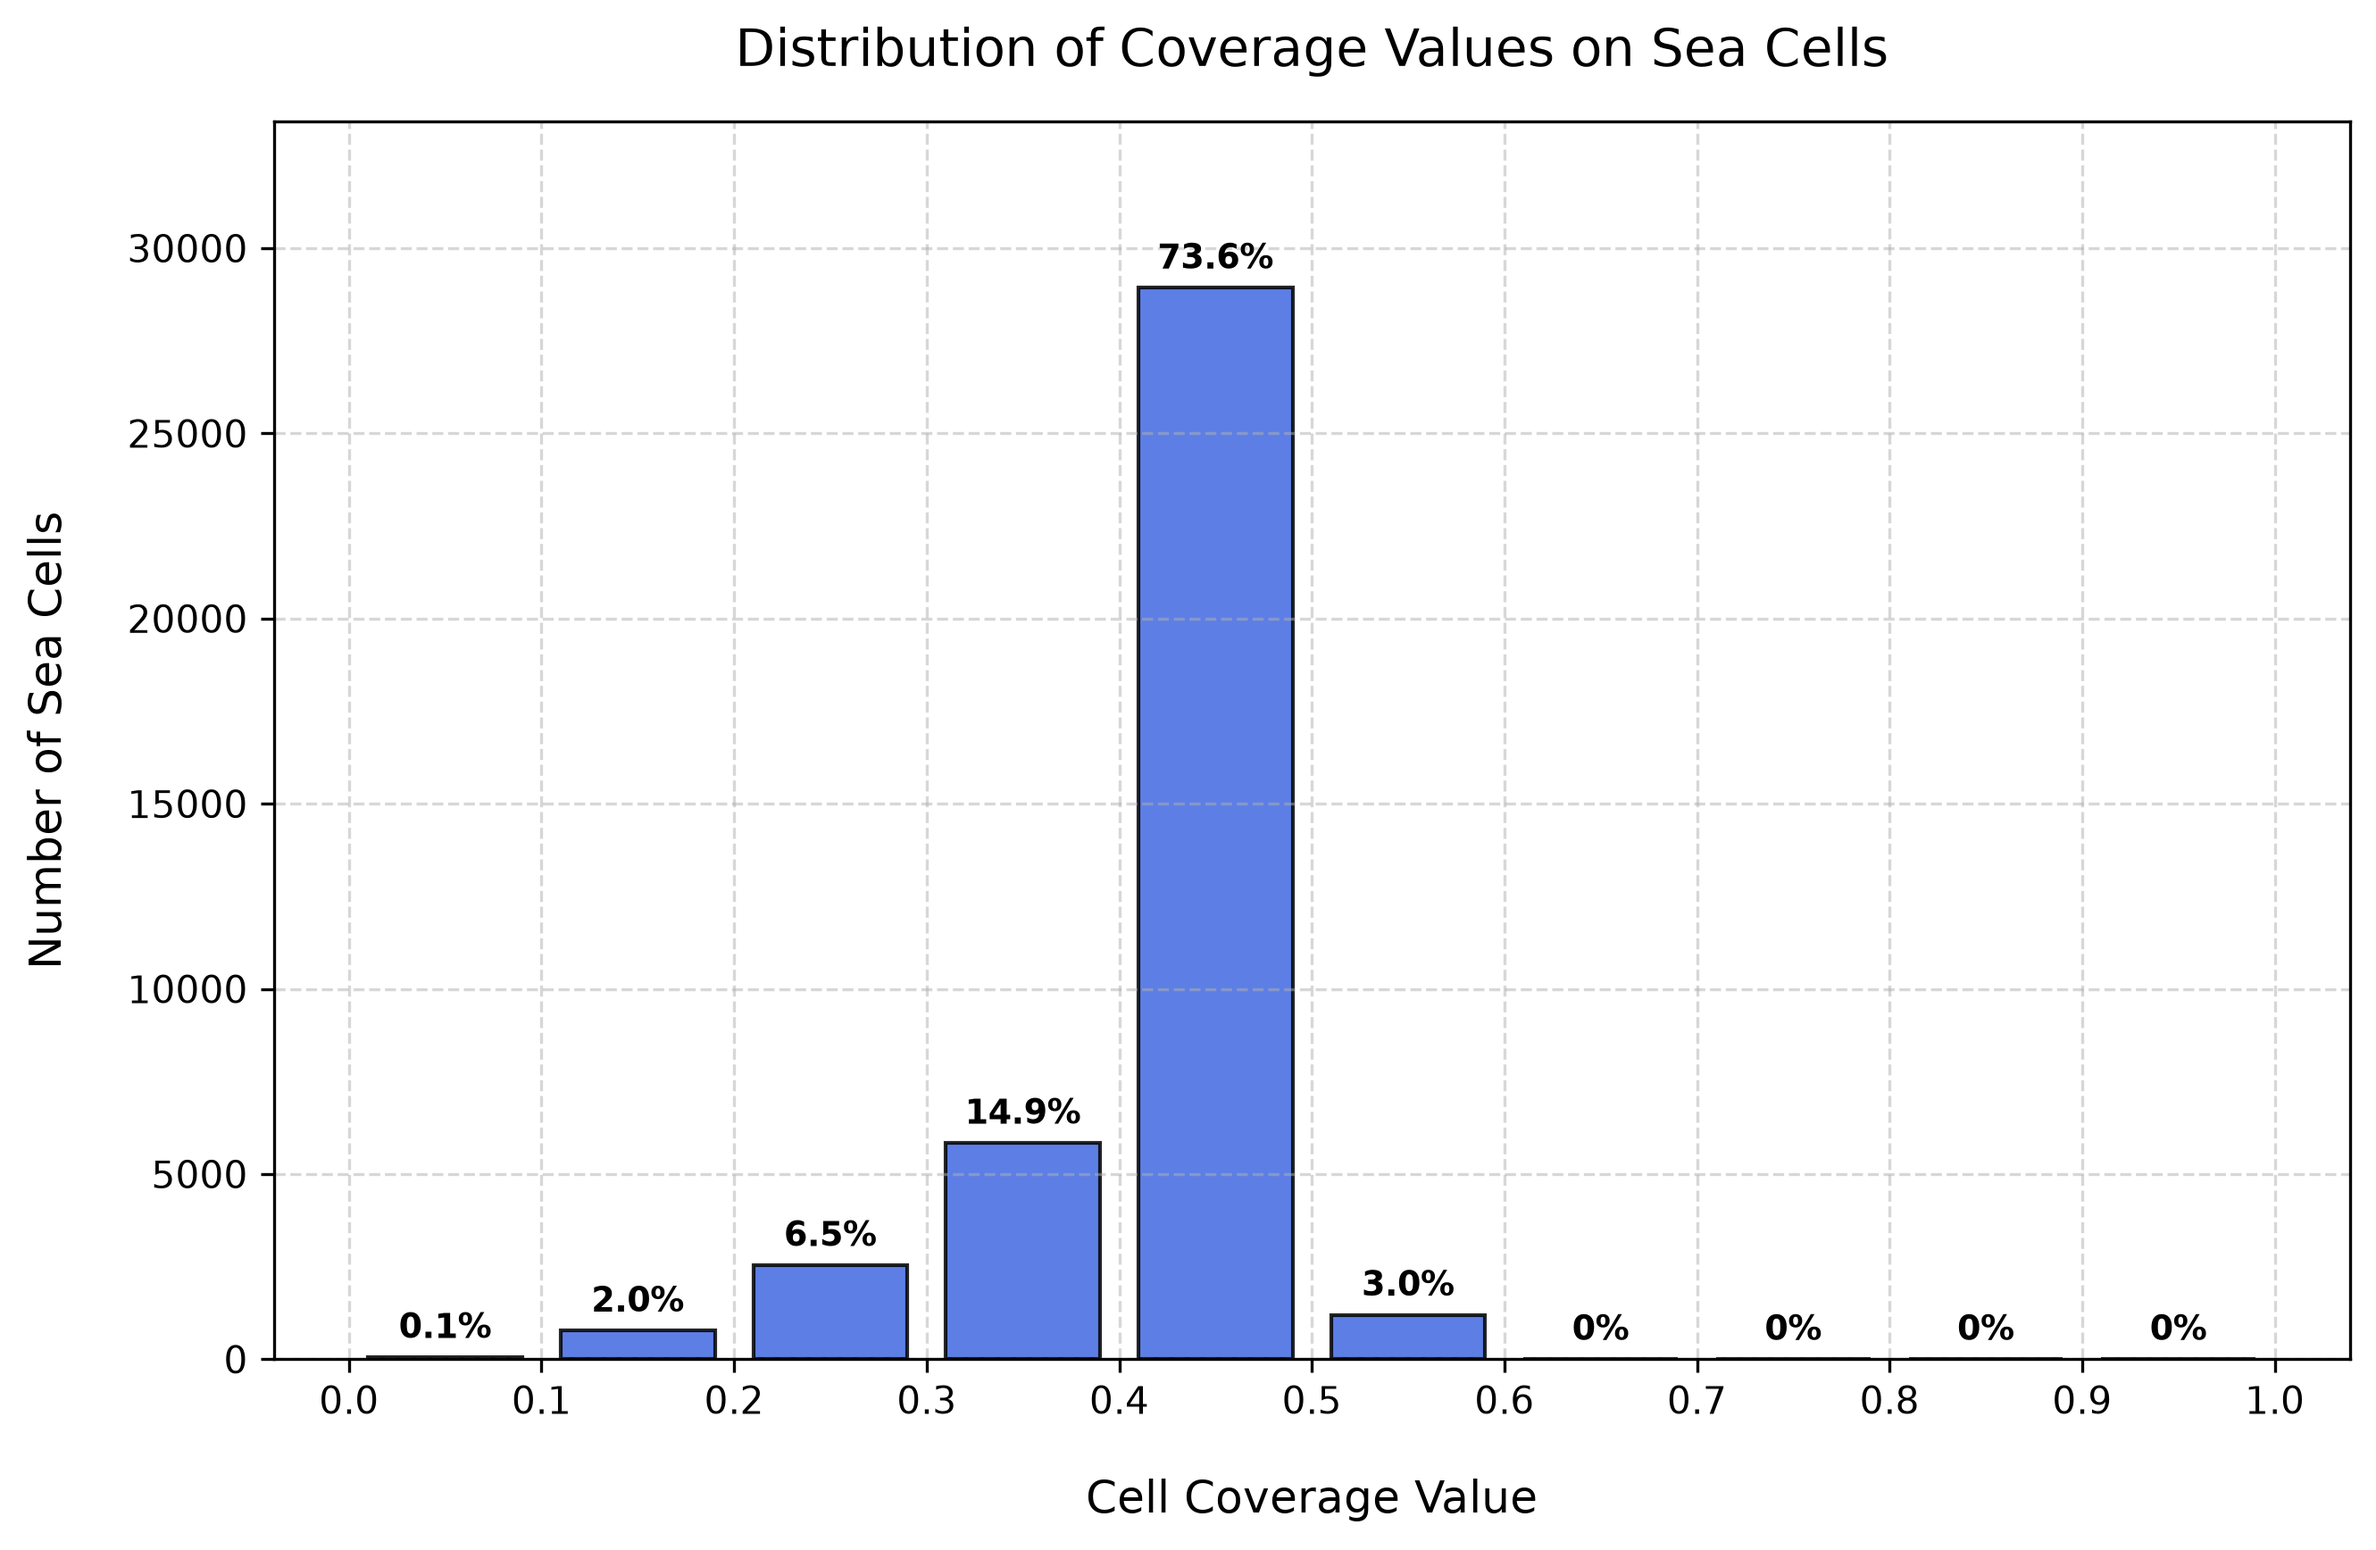
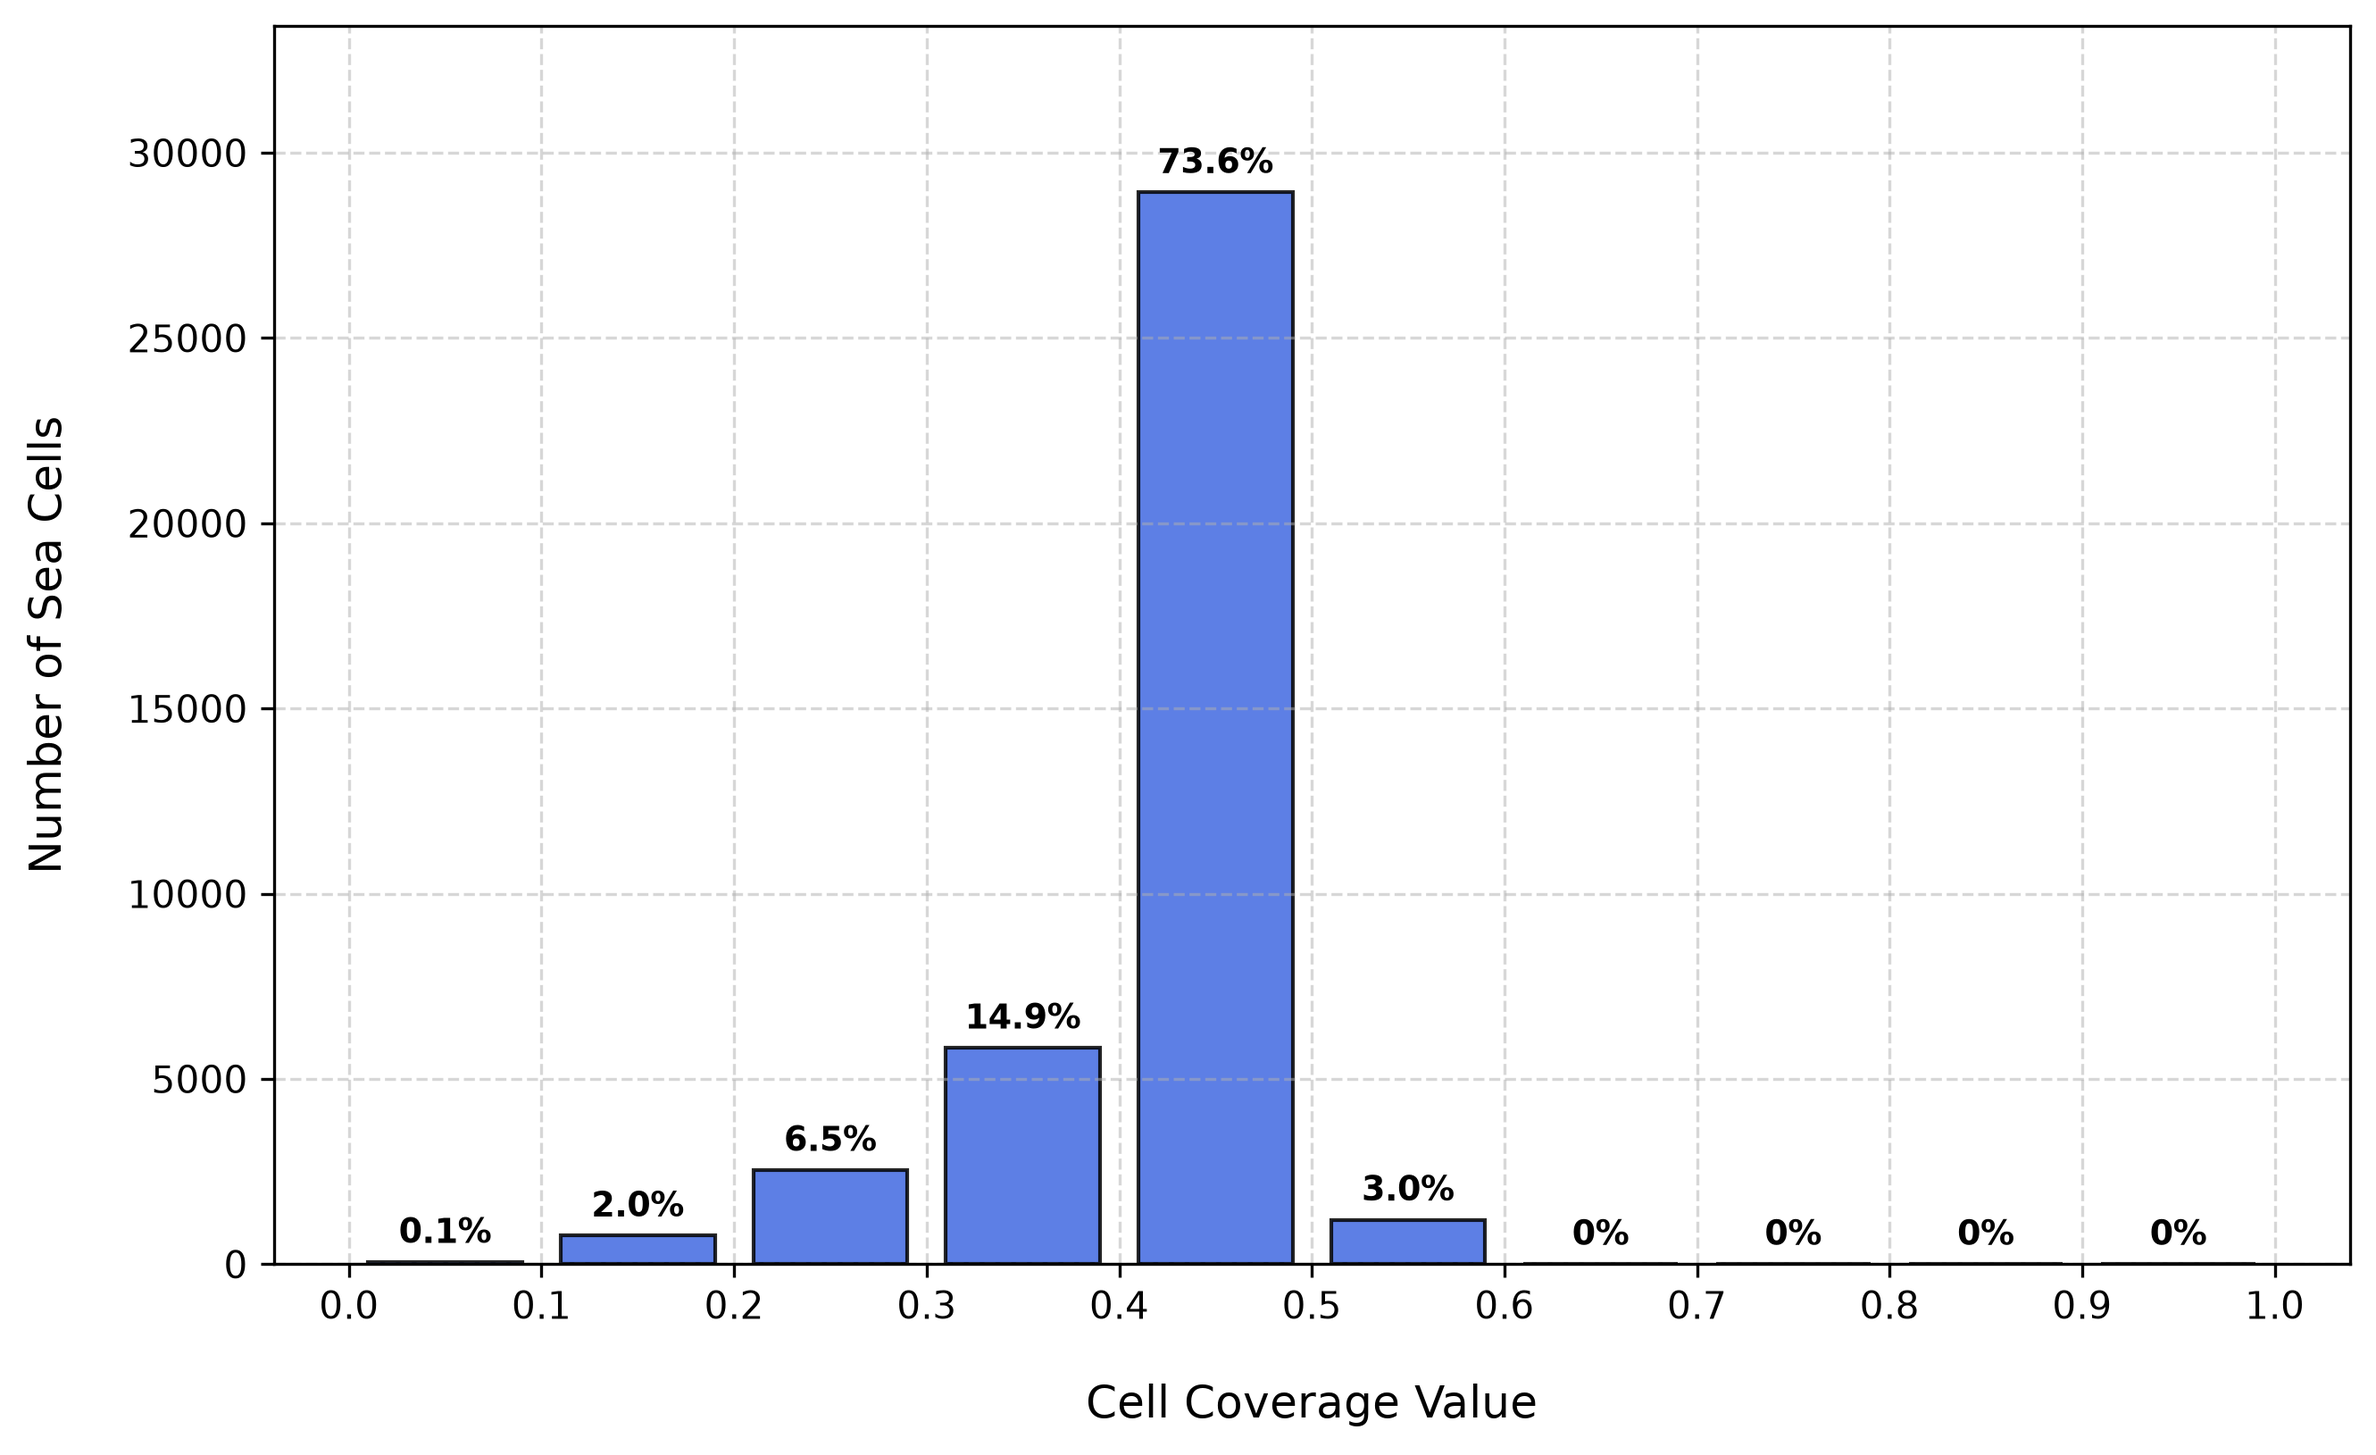
Correzione indici risultati grafici

diff --git a/main.py b/main.py
@@ -11,7 +11,6 @@ def main():
     coverage_histories = []
     percent_histories = []
     grids_histories = []
-    #final_grids = []
 
     trajectory_run_0 = None
     coverage_history_run_0 = None
@@ -72,7 +71,6 @@ def main():
         coverage_histories.append(coverage_history)
         percent_histories.append(coverage_percent_history)
         grids_histories.append(grids_history)
-        #final_grids.append(m.grid)
 
         if run == 1:
             trajectory_run_0 = trajectory
@@ -104,7 +102,6 @@ def main():
         "coverage_history": list(average_coverage),
         "coverage_percent_history": list(average_percent),
         "std_percent_coverage": list(std_percent_coverage),
-        #"final_grid": average_final_grid,
         "grids_history": list(average_grids),
         "sea_mask": m.sea_mask
     }

diff --git a/visualization/plots.py b/visualization/plots.py
@@ -68,8 +68,6 @@ def save_coverage_plot(coverage_history,iteration_step, path):
     ax.set_xlabel('Time', fontsize=12, labelpad=15)
     ax.set_ylabel('Coverage (%)', fontsize=12, labelpad=15)
 
-    # Title
-    ax.set_title('Trend of coverage value over time', fontsize=14, pad=15)
     # Grid configuration
     ax.grid(True, linestyle='--', alpha=0.5)
     ax.set_xticks(range(0, len(coverage_history), iteration_step))
@@ -118,7 +116,6 @@ def save_coverage_histogram(map_grid, sea_mask, path):
     # Label
     ax.set_xlabel('Cell Coverage Value', fontsize=12, labelpad=15)
     ax.set_ylabel('Number of Sea Cells', fontsize=12, labelpad=15)
-    ax.set_title('Distribution of Coverage Values on Sea Cells', fontsize=14, pad=15)
 
     ax.grid(True, which='both', linestyle='--', alpha=0.5)
     ax.set_xticks(bins)
